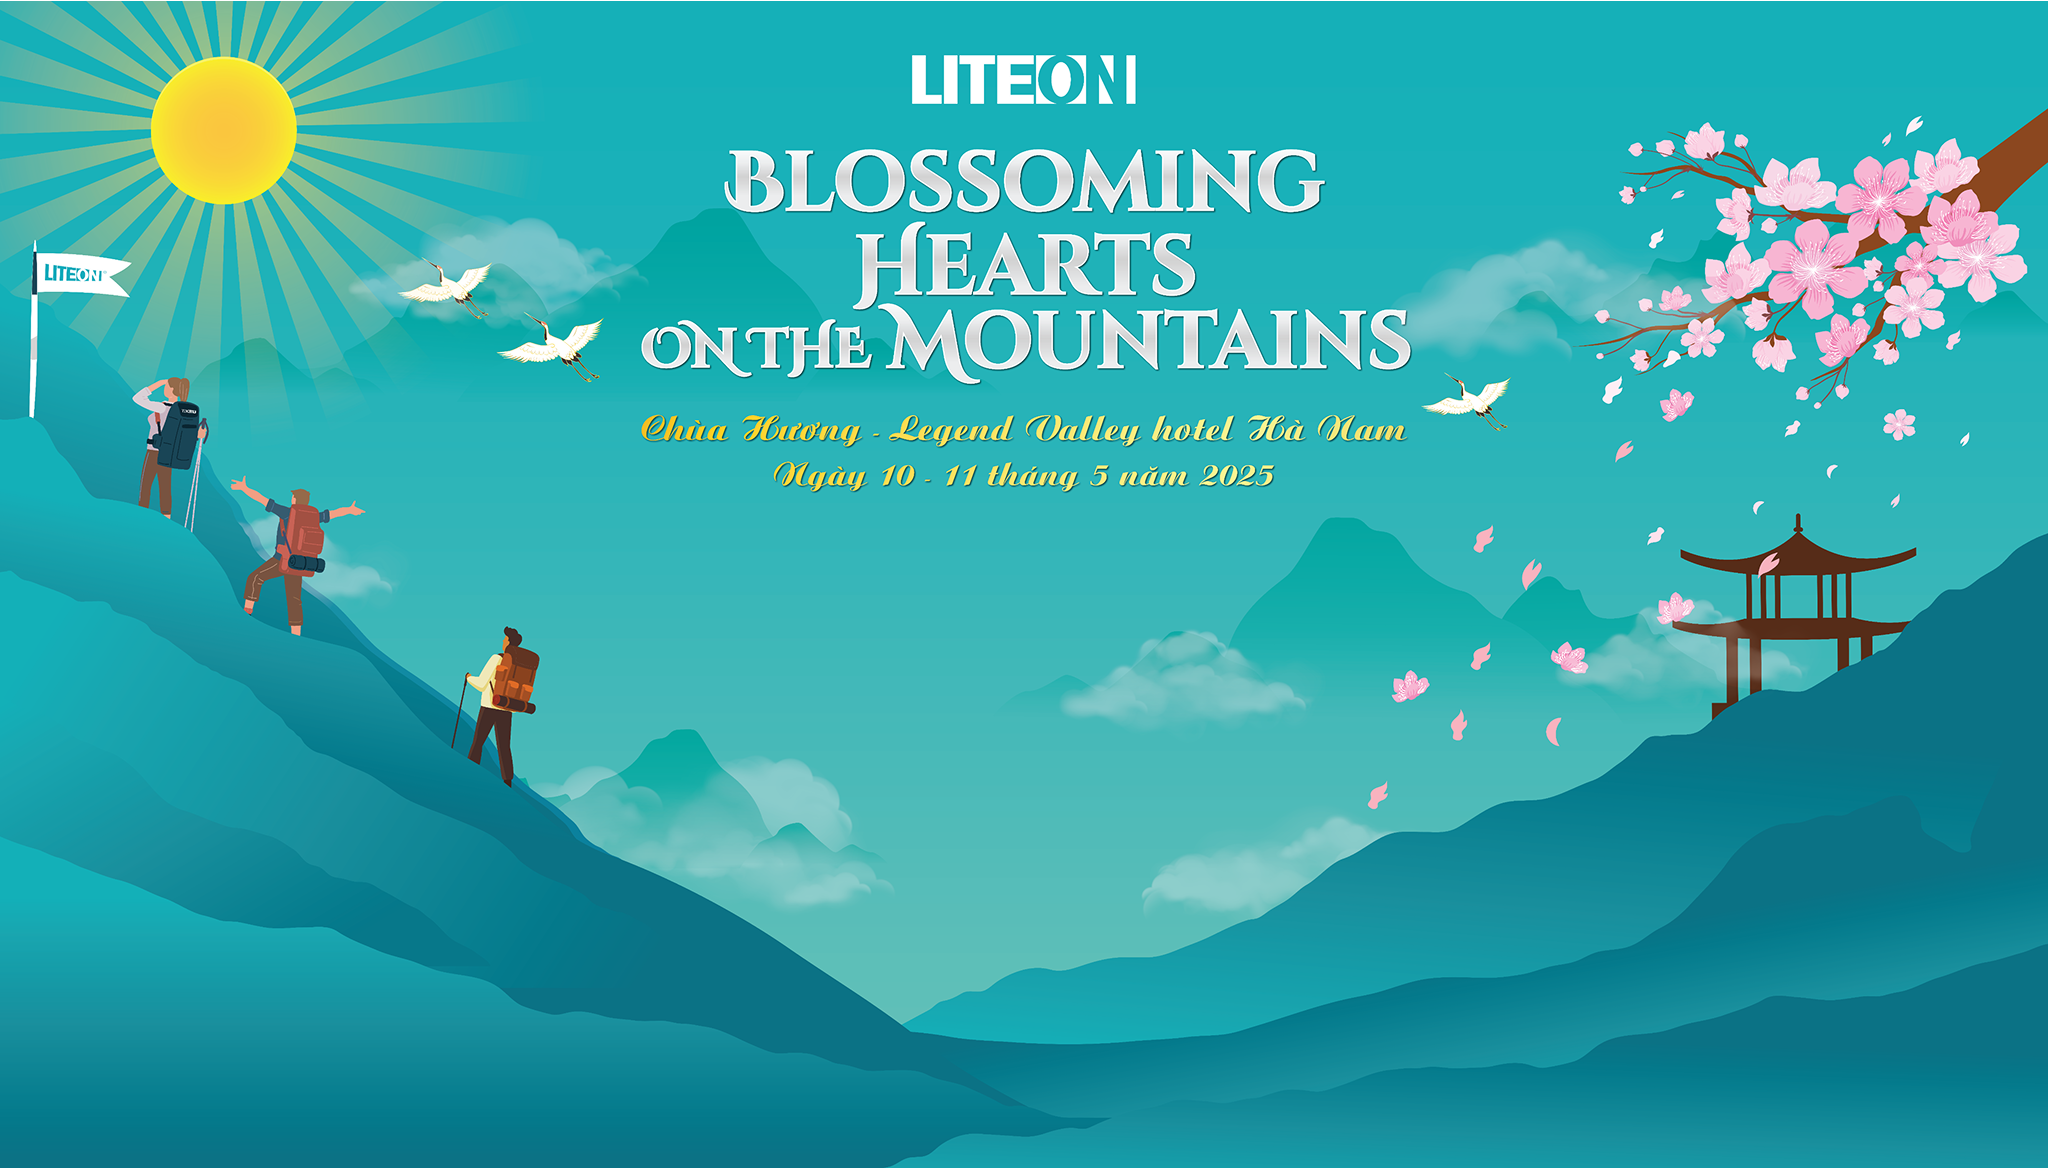
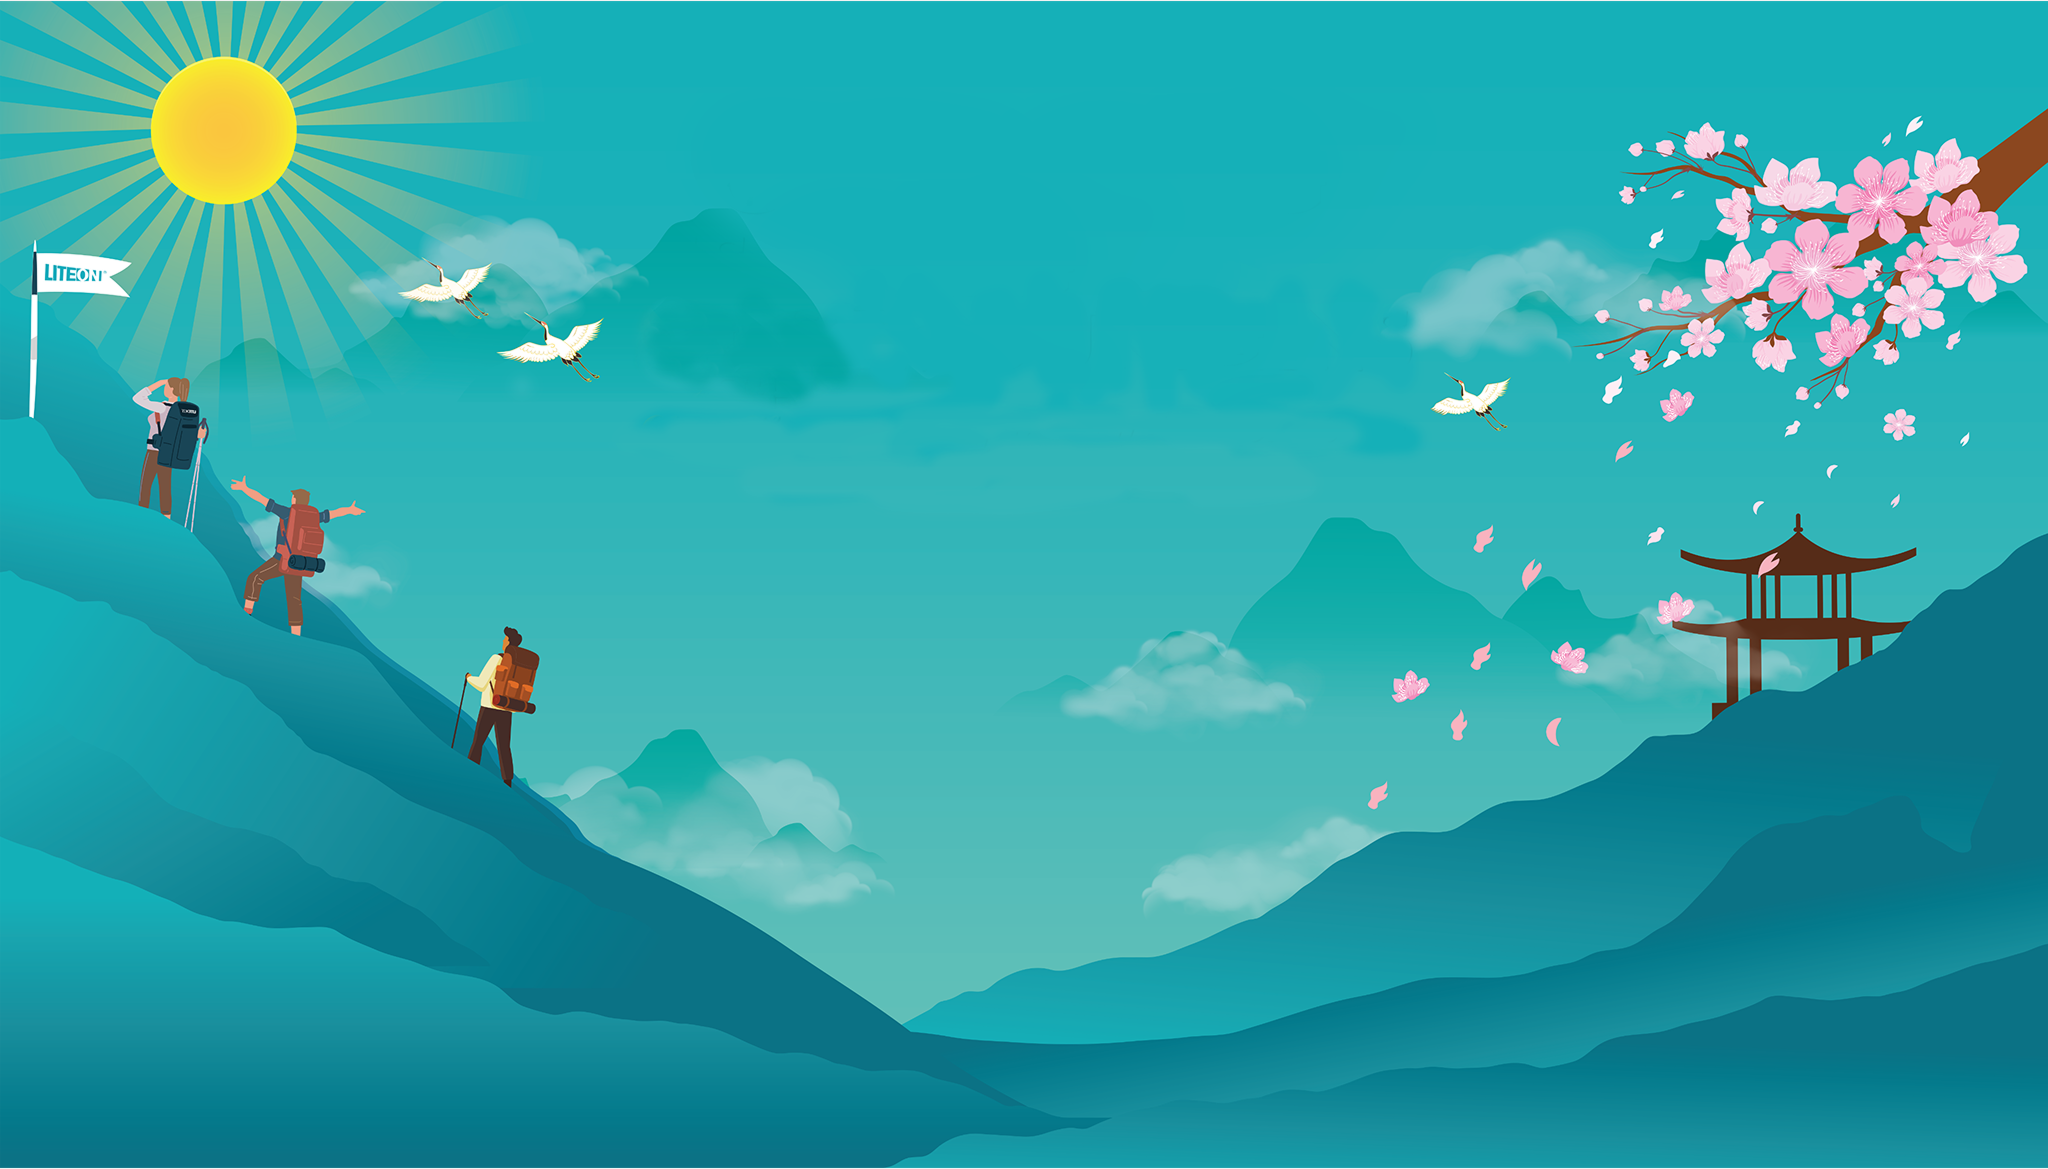
update image

Changed region(s): [[0.3125, 0.1232, 0.6875, 0.4311], [0.4375, 0.0308, 0.5625, 0.0924]]

diff --git a/assets/css/custom.css b/assets/css/custom.css
@@ -6,11 +6,11 @@
 }
 
 body {
-    /* background-image: url('/assets/file/system/background.png'); */
-    /* background-size: cover; */
-    /* background-position: top; */
-    /* background-repeat: no-repeat; */
-    background-color: #15b0b8;
+    background-image: url('/assets/file/system/background.png');
+    background-size: cover; /* Để ảnh phủ toàn bộ */
+    background-position: center; /* Căn giữa ảnh */
+    background-repeat: no-repeat; /* Không lặp lại ảnh */
+    min-height: 100vh; /* Đảm bảo chiều cao tối thiểu là 100% chiều cao viewport */
     display: flex;
     flex-direction: column;
     align-items: center;

diff --git a/views/user/layout/header.php b/views/user/layout/header.php
@@ -25,9 +25,6 @@
 
 <body>
 <div class="container d-flex flex-column align-items-center">
-    <div class="col-6 col-lg-1 mt-5">
-            <img class="w-100" src="<?= URL_STORAGE ?>system/logo.png" alt="logo.png">
-    </div>
     <div class="col-12 col-lg-4 mt-3">
             <img class="w-100 img-heading" src="<?= URL_STORAGE ?>system/heading_1.png" alt="heading_1.png">
     </div>
